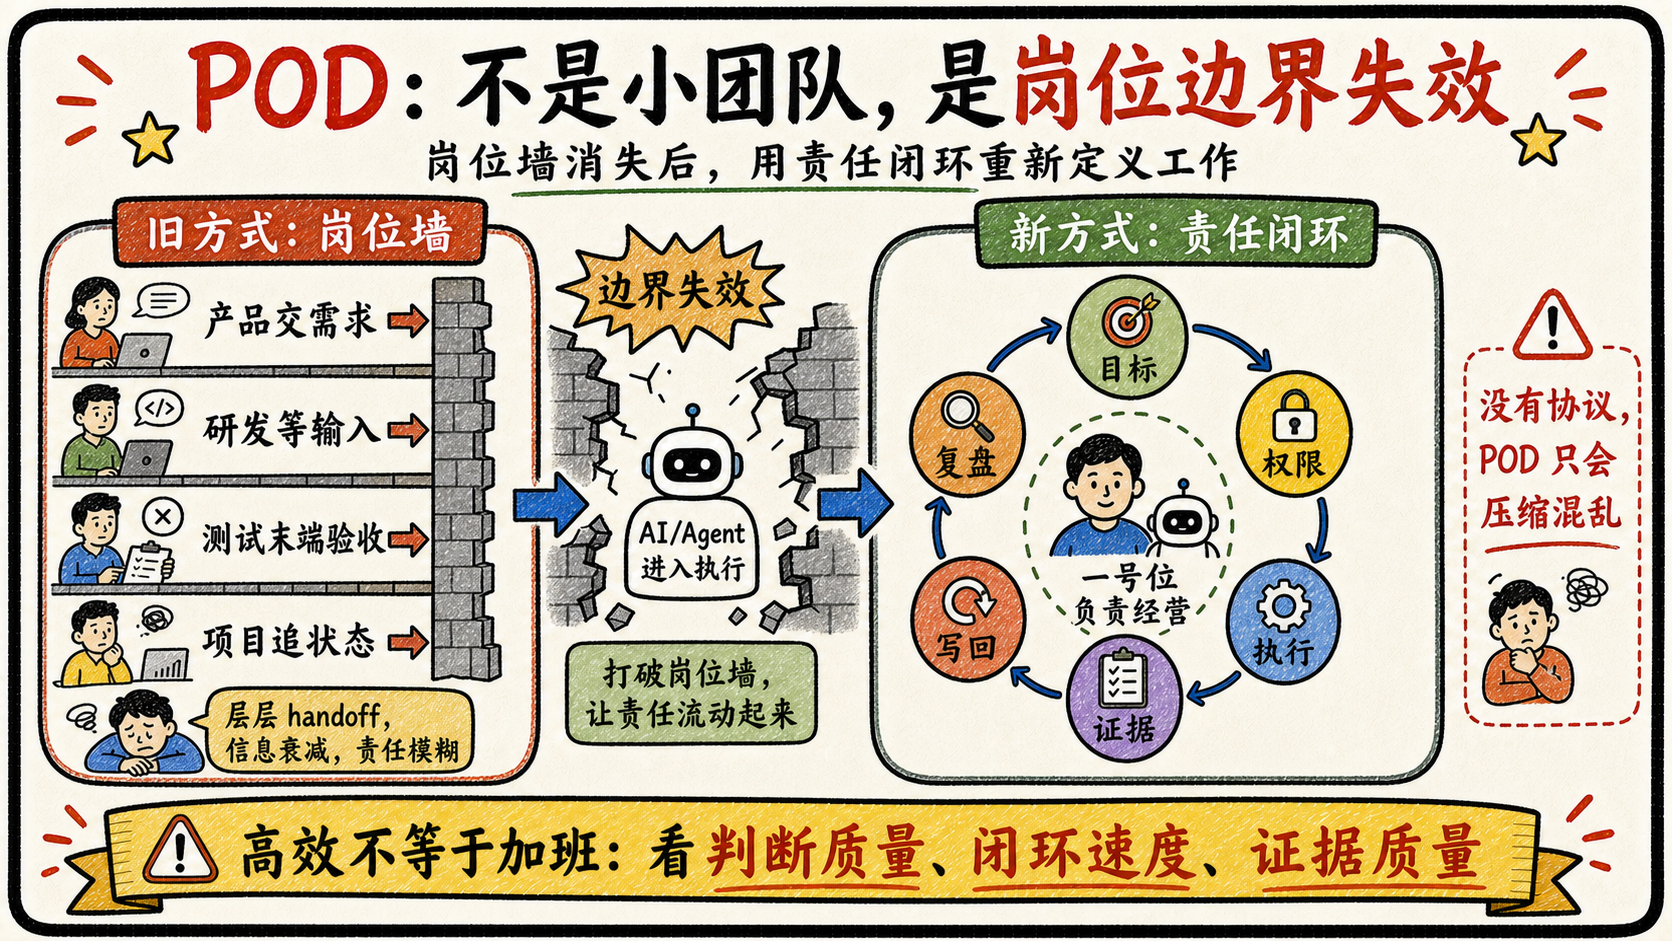
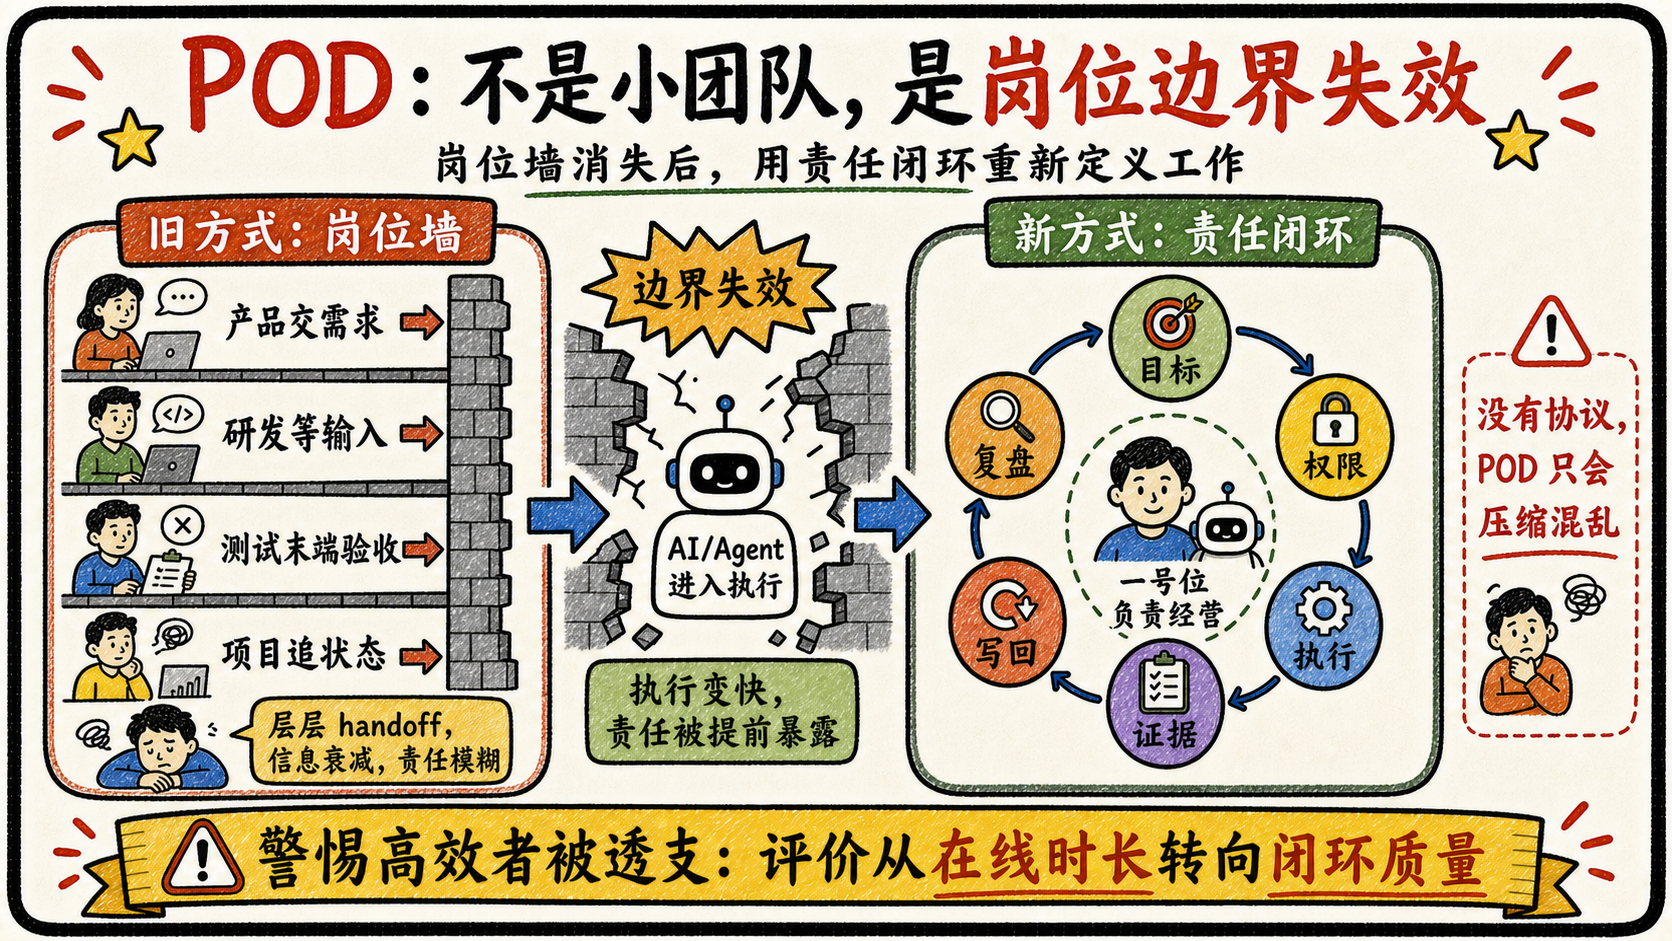
docs: correct pod card efficiency framing

diff --git a/wiki/ops/agentic-product-engineering-collaboration-company-playbook-report-gate-review.md b/wiki/ops/agentic-product-engineering-collaboration-company-playbook-report-gate-review.md
@@ -27,6 +27,10 @@ Change made:
 - Added image-model asset
   `wiki/reports/agentic-product-engineering-collaboration-company-playbook-assets/06-pod-role-boundary-card.png`
   to visualize old role walls, boundary collapse, and the new accountable loop.
+- Corrected the card bottom ribbon from an over-simplified efficiency slogan to
+  a risk-and-metric framing: high-efficiency people can be overextended if
+  evaluation stays tied to online time; the target evaluation moves toward loop
+  quality.
 - Kept the original company-playbook spine: OpenAI, Anthropic, Stripe, and
   Block remain the main comparison structure.
 - Added Meta / OpenAI Deployment Company / Tezign source links to the source
